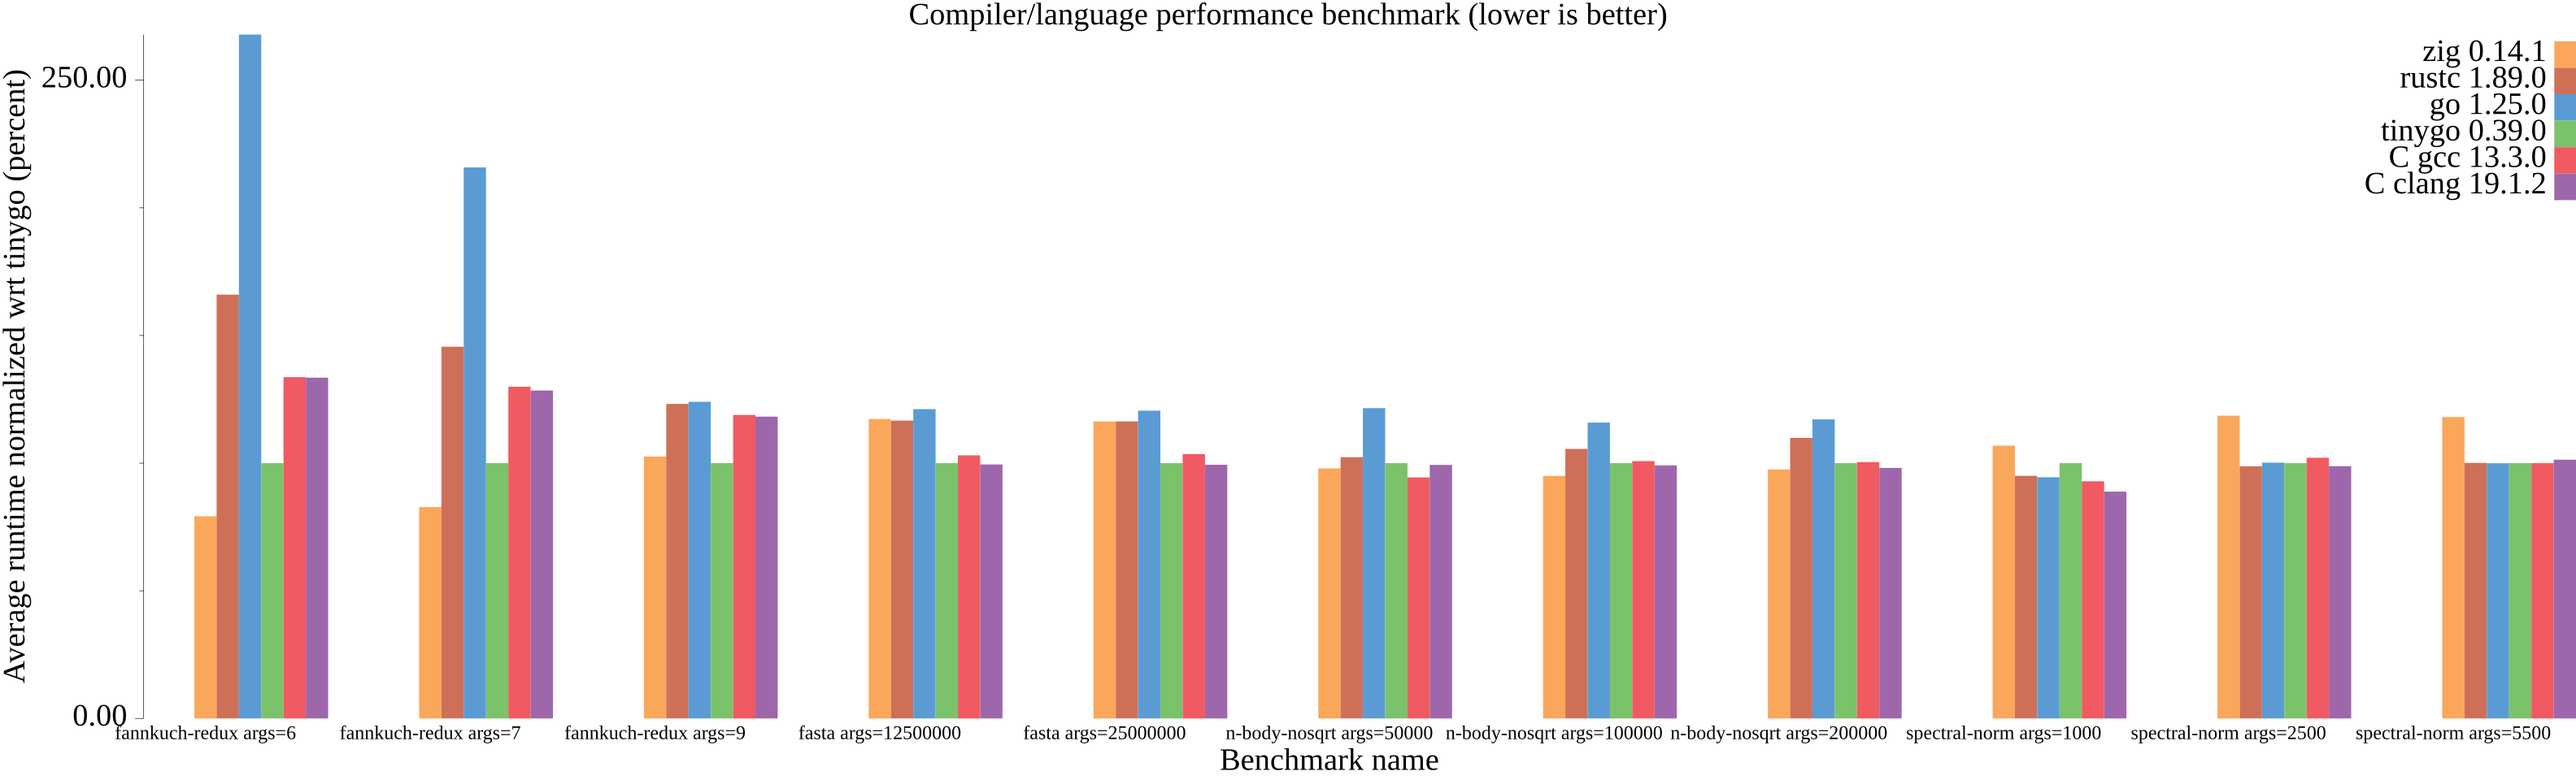
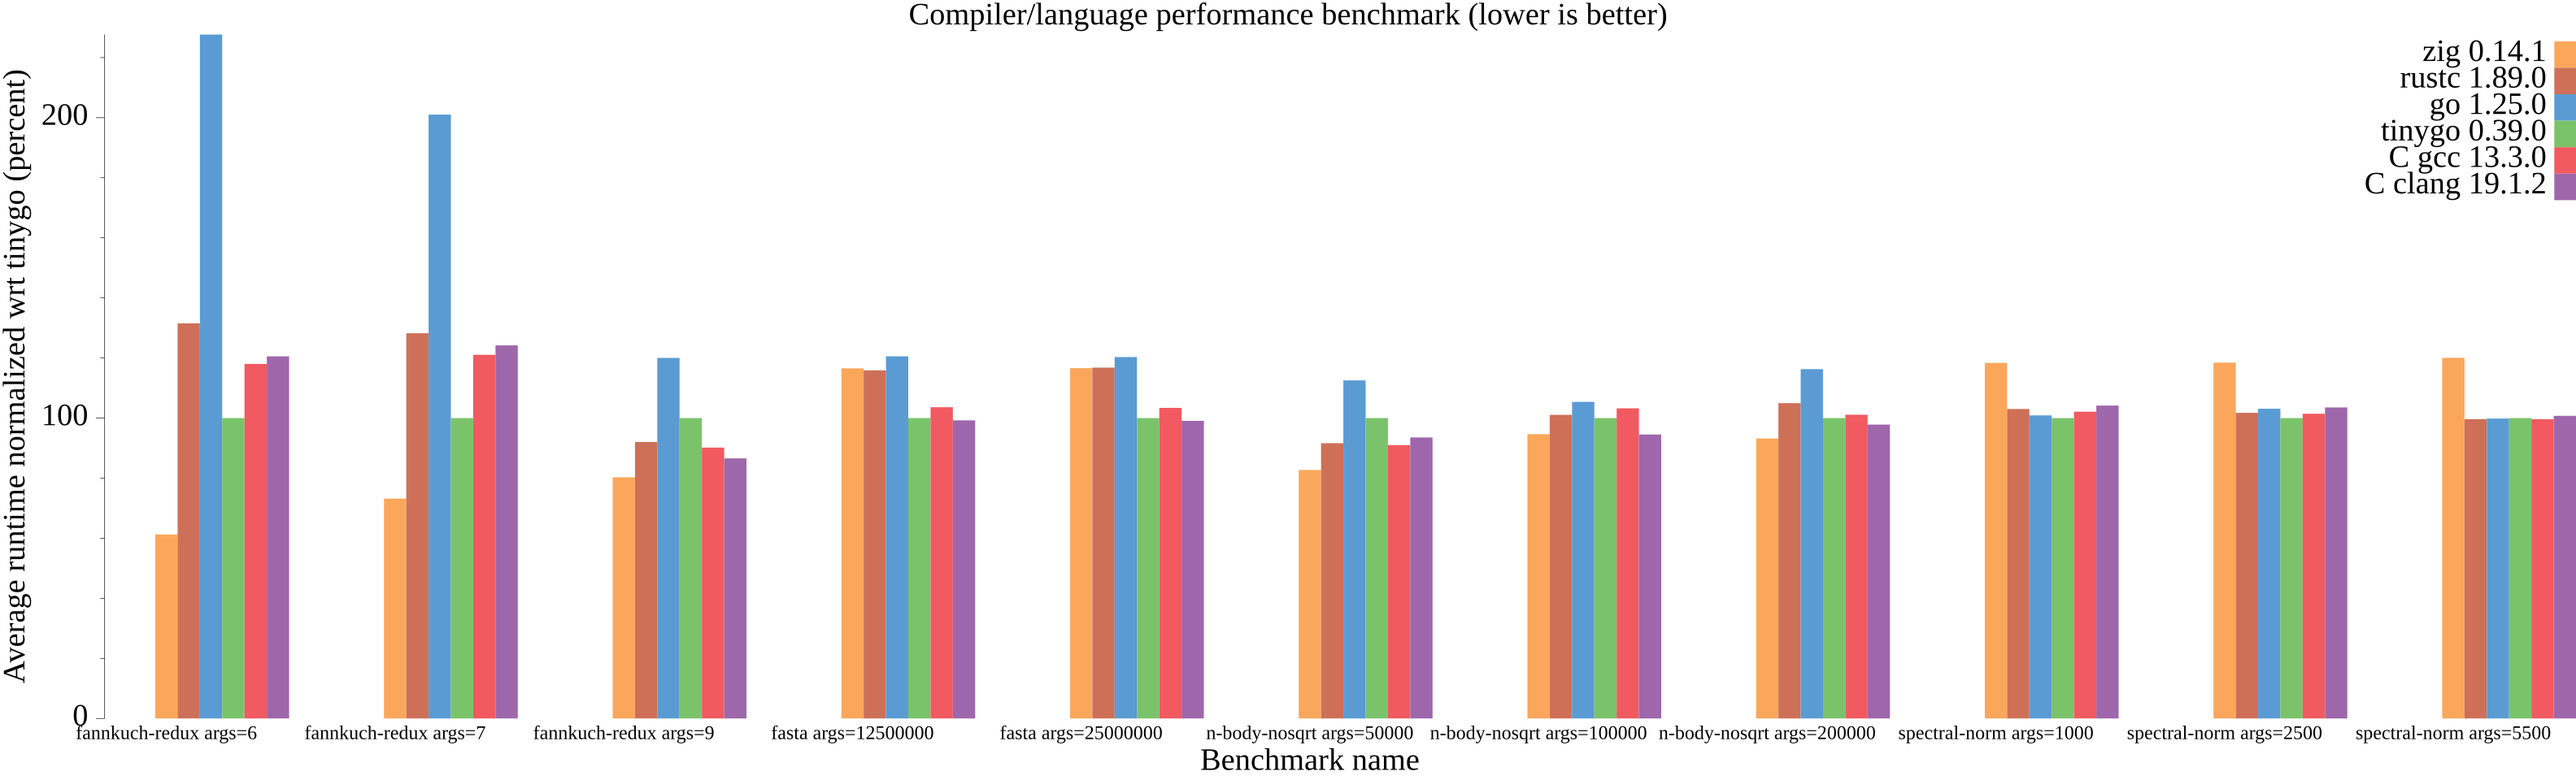
preso: include the correct benchmarks output

Changed region(s): [[0.0, 0.0312, 1.0, 1.0]]

diff --git a/index.html b/index.html
@@ -201,7 +201,7 @@ func main() {
 
 		<section>
 			<div class="image-container">
-				<img src="./images/tinybenchmarks.png">
+				<img src="./images/benchmark.png">
 			</div>
 			<h3>Latest benchmarks</h3>
 		</section>
